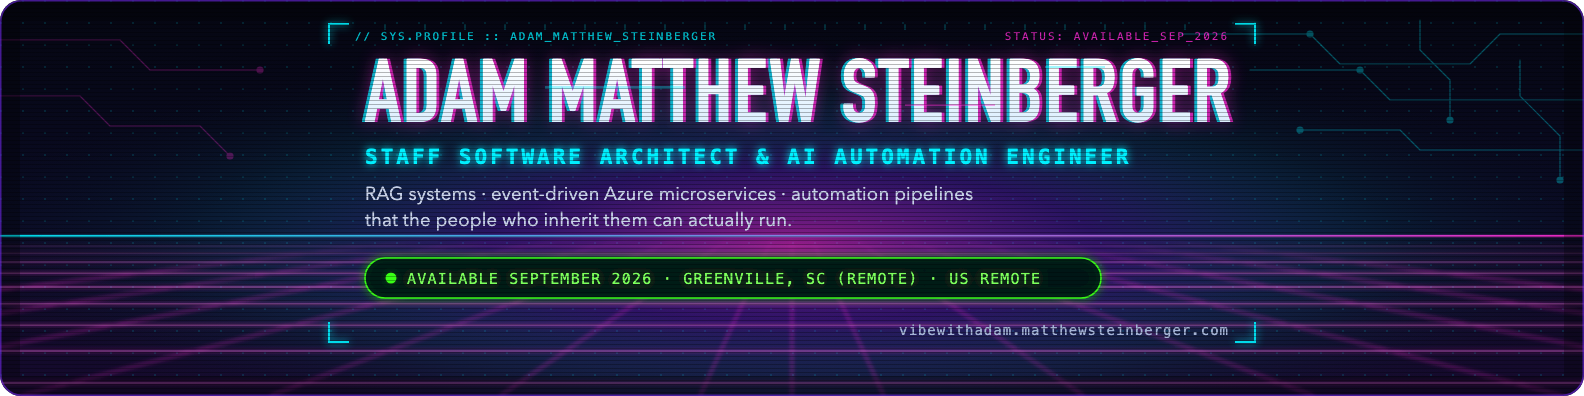
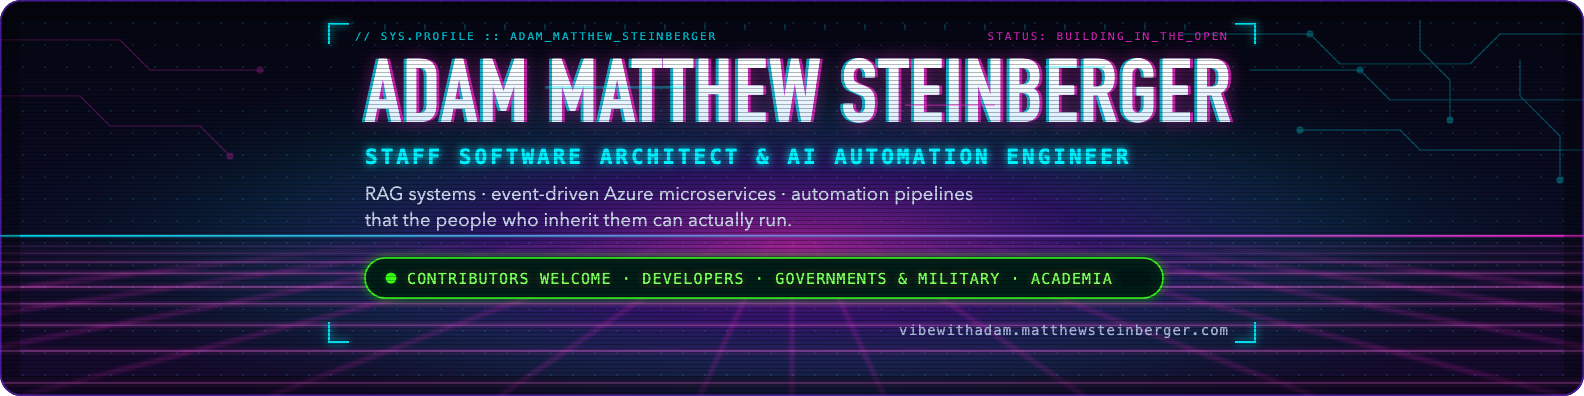
docs: point the profile at contributors, governments and academia
The operator decided that nothing on the profile may be looking-for-work or
consulting copy. The profile now speaks to three audiences, in this order,
with the positioning and wording of the website rework
(adammatthewsteinberger/portfolio#89, src/data/audiences.ts and /join-me):

1. Developers who can help build vibey, with a five-step "how to get
   started" taken from vibey's CONTRIBUTING.md (set up, run the gates,
   pick an issue, branch from develop, PR into develop through the merge
   train) and a link to /join-me#developers.
2. Governments and military: seven claims, each linked to its source in
   the vibey repository. The open gap for fully local operation (#115) is
   named, contact goes through official channels, and the section claims
   no customer, contract, clearance, accreditation or endorsement.
3. Universities and academia: the paper, the book, CITATION.cff (no DOI
   yet), reproducibility, the MIT license and research collaboration, with
   no claimed affiliation. Links to /join-me#academia.

Removed: the "Available from September 2026" badge, the résumé badge, the
target-roles and W2 line, "Everything a hiring manager needs" and "Ask my
résumé" (now "Ask about Adam"), the "hire me" link, the availability note
under Now, and the executive-edition link. The old Contribute section is
folded into "Help build vibey".

Package links pointed at adammatthewsteinberger/<package> repositories
that now 404. They point at the package's directory in
[…]

Changed region(s): [[0.2475, 0.6364, 0.7424, 0.7879], [0.6187, 0.0606, 0.7734, 0.1212]]

diff --git a/README.md b/README.md
@@ -1,17 +1,70 @@
 <picture>
   <source media="(prefers-color-scheme: dark)" srcset="assets/banner-dark.png">
-  <img src="assets/banner-light.png" width="100%" alt="Adam Matthew Steinberger — Staff Software Architect & AI Automation Engineer. Available from September 2026, Greenville, SC (remote) / US remote.">
+  <img src="assets/banner-light.png" width="100%" alt="Adam Matthew Steinberger — Staff Software Architect & AI Automation Engineer. Status: building in the open. Contributors welcome: developers, governments and military, universities and academia.">
 </picture>
 
 # Adam Matthew Steinberger
 
 **Staff Software Architect & AI Automation Engineer** — I build AI systems that actually work inside enterprise environments: production-grade platforms that handle real data, real security requirements, and real organizational complexity. Not just demos.
 
-[![Available from September 2026](https://img.shields.io/badge/Available-from%20September%202026-1a7f37?style=flat-square)](https://vibewithadam.matthewsteinberger.com/hire-me) [![Résumé (PDF)](https://img.shields.io/badge/R%C3%A9sum%C3%A9-PDF-0969da?style=flat-square)](https://github.com/adammatthewsteinberger/resume/raw/main/adam-steinberger-resume.pdf) [![LinkedIn](https://img.shields.io/badge/LinkedIn-adammatthewsteinberger-0a66c2?style=flat-square&logo=linkedin&logoColor=white)](https://www.linkedin.com/in/adammatthewsteinberger/) [![Join me](https://img.shields.io/badge/Join%20me-contribute-6f42c1?style=flat-square)](https://vibewithadam.matthewsteinberger.com/join-me)
+[![vibey on PyPI](https://img.shields.io/pypi/v/vibey?style=flat-square&label=vibey&color=6f42c1)](https://pypi.org/project/vibey/) [![vibey on GitHub](https://img.shields.io/badge/GitHub-the--vibey--project%2Fvibey-24292f?style=flat-square&logo=github&logoColor=white)](https://github.com/the-vibey-project/vibey) [![LinkedIn](https://img.shields.io/badge/LinkedIn-adammatthewsteinberger-0a66c2?style=flat-square&logo=linkedin&logoColor=white)](https://www.linkedin.com/in/adammatthewsteinberger/) [![Join me](https://img.shields.io/badge/Join%20me-contribute-6f42c1?style=flat-square)](https://vibewithadam.matthewsteinberger.com/join-me)
 
-Based in Greenville, SC. Looking for **Staff Software Architect · AI Automation Engineer · Staff/Principal AI Engineer · Solutions Architect · Platform/Automation Engineer** roles — Greenville-remote or US-remote, W2 preferred, contract-to-hire OK.
+Based in Greenville, SC. I primarily develop free and open-source software, and right now that means **[vibey](https://github.com/the-vibey-project/vibey)**, the open-source conductor that turns AI coding agents into autonomous software delivery. I'm looking for developers to help build it. Greenville-remote or US-remote volunteers are welcome and encouraged to get involved at any time.
 
-**→ [Everything a hiring manager needs](https://vibewithadam.matthewsteinberger.com/hire-me)** · [Email me](mailto:adam@matthewsteinberger.com) · [Ask my résumé](https://vibewithadam.matthewsteinberger.com/) (a Claude RAG widget I built)
+This profile speaks to three audiences, in this order: **[developers](#help-build-vibey)** · **[governments and military](#governments-and-military)** · **[universities and academia](#universities-and-academia)**.
+
+**→ [Everything a developer needs to get started](https://vibewithadam.matthewsteinberger.com/join-me#developers)** · [Email me](mailto:adam@matthewsteinberger.com) · [Ask about Adam](https://chatwithadam.matthewsteinberger.com/) (a Claude RAG chat I built)
+
+## Help build vibey
+
+AI coding agents can write code. Delivery still means babysitting them: re-prompting when one loses the thread, re-explaining everything after a crash, and watching a run die at 2am because one vendor's credits ran out. vibey takes that job over. It interviews you until the spec is sharp, builds unattended across a pool of engines, and brings you back only for the decisions that are genuinely yours.
+
+It's MIT licensed and one `uv tool install vibey` away ([PyPI](https://pypi.org/project/vibey/) · [docs](https://the-vibey-project.github.io/vibey/main/)). The whole family lives in [one repository](https://github.com/the-vibey-project/vibey): the five `*loop` engines, vibey-gh, vibey-skills, and vibey-bootstrap.
+
+**How to get started**
+
+1. **Set up the repository.** You need Python 3.12+, PostgreSQL, and macOS or Linux. The test suite needs no engine binaries and no paid accounts.
+   ```sh
+   git clone https://github.com/the-vibey-project/vibey.git && cd vibey
+   uv sync --extra dev
+   uv run pre-commit install --hook-type pre-commit --hook-type commit-msg --hook-type pre-push
+   uv run vibey-gh install
+   ```
+2. **Run the gates.** The same seven gates CI runs (ruff lint and format, `mypy --strict`, the tests with a 100% branch-coverage floor on each architectural layer, import-linter, bandit, pip-audit), in one command: `uv run pre-commit run --all-files --hook-stage pre-push`.
+3. **Pick an issue.** Start with a [good first issue](https://github.com/the-vibey-project/vibey/issues?q=is%3Aissue%20is%3Aopen%20label%3A%22good%20first%20issue%22), [help wanted](https://github.com/the-vibey-project/vibey/issues?q=is%3Aissue%20is%3Aopen%20label%3A%22help%20wanted%22), or an [open bug](https://github.com/the-vibey-project/vibey/issues?q=is%3Aissue%20is%3Aopen%20label%3A%22bug%22). Read [CONTRIBUTING.md](https://github.com/the-vibey-project/vibey/blob/develop/CONTRIBUTING.md) and the short list of [non-negotiables](https://github.com/the-vibey-project/vibey/blob/develop/CLAUDE.md) first, because the gates enforce both.
+4. **Branch from `develop` and commit conventionally.** `git checkout -b feature/short-description develop`. The commit-msg hook appends the `Made-With:` provenance trailer.
+5. **Open a pull request into `develop`, never `main`.** You never press Merge: once it has one approval, a green `gates` check, and a passing PR-automation gate, the merge train squash-merges it.
+
+Where help matters most: finishing the sovereign path ([#115](https://github.com/the-vibey-project/vibey/issues/115), turning a local design into build work without a paid engine), fixing a reported bug, adding an engine, adding a skill, and improving the docs. The full walk-through, with the ten-minute user quickstart, is at **[/join-me#developers](https://vibewithadam.matthewsteinberger.com/join-me#developers)**.
+
+## Governments and military
+
+Governments, and armed forces most of all, adopt software under the hardest obligations. Every artifact has to be attributable, and every automated decision has to be reconstructible after the fact. Work has to continue when a vendor or a network is denied, and no capability can depend on a supplier's continued goodwill. Here is what vibey offers against those obligations. Each claim links to its source, so you can check it instead of trusting it.
+
+- **Local models by preference, not as a fallback.** The project's governing rules make the fully local path the preferred way to run ([sub-doctrine 8.a](https://github.com/the-vibey-project/vibey/blob/develop/src/vibey_tools/gh/docs/doctrines.md)). The design interview can run entirely on a local model served by Ollama, and build work can be pinned to qwenloop, a local Qwen 2.5 Coder engine. One gap is still open: turning a local design into build work without a paid engine ([#115](https://github.com/the-vibey-project/vibey/issues/115)). → [decision record](https://github.com/the-vibey-project/vibey/blob/develop/docs/architecture/decisions/0027-sovereign-design-provider.md)
+- **Built to run on your own hardware.** Your macOS or Linux hosts, your own PostgreSQL, no cloud control plane. The local engine never downloads model weights on its own. → [decision record](https://github.com/the-vibey-project/vibey/blob/develop/docs/architecture/decisions/0015-qwenloop-standby.md)
+- **An append-only ledger you can audit.** Every decision, finding, and handoff is written to an append-only PostgreSQL ledger before it takes effect. A correction is a new event that supersedes the old one, so any run can be reconstructed after the fact. → [the paper](https://the-vibey-project.github.io/vibey/main/paper/)
+- **Human authority is part of the structure.** Four of the six phases need an explicit, recorded human verdict before they close, and a worker never blocks while it waits. → [the paper](https://the-vibey-project.github.io/vibey/main/paper/)
+- **Provenance and exact-head review.** Every source file carries a provenance header and every commit a provenance trailer, enforced by a pre-push hook and a required CI check. Every check, review, and merge is tied to the exact commit it examined, so an old approval can never pass newer code. → [vibey-gh for governments](https://github.com/the-vibey-project/vibey/blob/develop/src/vibey_tools/gh/docs/government.md)
+- **Everything as code, behind the same gates.** Branch protection, pipelines, policy, and infrastructure are declared in the repository and reconciled from it. Changes pass bandit, pip-audit, strict typing, enforced layering, and a 100% branch-coverage floor on each layer. → [decision record](https://github.com/the-vibey-project/vibey/blob/develop/docs/architecture/decisions/0018-everything-as-code.md)
+- **Written rules for machine agents.** vibey's agent instructions carry standing subdoctrine [SD-01](https://github.com/the-vibey-project/vibey/blob/develop/src/vibey_tools/gh/docs/sd-01-counterparties-trust-verification.md) word for word: every counterparty, whether a person, a company, or a state, starts unverified until a tangible check establishes its identity, authority, and intent.
+
+Use official channels, and expect the same verification in return. Write from an official address to [adam@matthewsteinberger.com](mailto:adam@matthewsteinberger.com), report a security vulnerability privately as [vibey's security policy](https://github.com/the-vibey-project/vibey/blob/develop/SECURITY.md) describes (never in a public issue), and ask public questions in [GitHub Discussions](https://github.com/the-vibey-project/vibey/discussions). The full section is at **[/join-me#governments](https://vibewithadam.matthewsteinberger.com/join-me#governments)**.
+
+*This profile claims no government or military customer, contract, clearance, accreditation, or endorsement. vibey is MIT-licensed open source: evaluate it on your own hardware, against its own gates.*
+
+## Universities and academia
+
+Claims about AI agents are easy to make and hard to reproduce. vibey's design is written as a research paper, its whole documentation is a book, and the code that backs both is open. Read it, cite it, teach with it, and test it.
+
+- **The research paper.** *Ledger-Mediated Orchestration: Vendor-Independent Autonomous Software Delivery over a Pool of Coding Agents* states the ledger invariant, the queue semantics, the no-loss handoff gate, and the gate-soundness argument formally. [HTML](https://the-vibey-project.github.io/vibey/main/paper/) · [PDF](https://the-vibey-project.github.io/vibey/main/paper.pdf) · [companion paper on the exact-head release calculus](https://github.com/the-vibey-project/vibey/blob/develop/src/vibey_tools/gh/docs/paper.md)
+- **The book.** Every page of the documentation, in reading order, rebuilt on every release. [PDF](https://the-vibey-project.github.io/vibey/main/book.pdf) · [EPUB](https://the-vibey-project.github.io/vibey/main/book.epub) · [print-ready HTML](https://the-vibey-project.github.io/vibey/main/book-print.html)
+- **Reproducible from the repository.** The paper is typeset from Markdown in the repository. The properties it relies on are pure, deterministic code under a 100% branch-coverage floor, backed by property tests and a chaos test against a real PostgreSQL. The paper also says what it does not yet report: live runs beyond two paid engines. Independent replication is welcome.
+- **Cite it.** The repository has a [CITATION.cff](https://github.com/the-vibey-project/vibey/blob/develop/CITATION.cff), so GitHub's "Cite this repository" button and citation managers can read it directly. No DOI or preprint identifier has been assigned yet.
+- **Open licenses for teaching and research.** vibey is [MIT licensed](https://github.com/the-vibey-project/vibey/blob/develop/LICENSE). Use it in a course, fork it for an experiment, and publish what you find.
+- **Research collaboration.** Some open questions worth a study: how the local path compares with paid engines on the same specifications, how the no-loss handoff gate behaves at scale, and live evaluation across all five engines. Propose a study, a course project, or a research partnership in [Discussions](https://github.com/the-vibey-project/vibey/discussions) or by [email](mailto:adam@matthewsteinberger.com).
+
+The full section is at **[/join-me#academia](https://vibewithadam.matthewsteinberger.com/join-me#academia)**. *This profile claims no institutional affiliation or endorsement.*
 
 ## What I ship
 
@@ -31,22 +84,20 @@ All 17 case studies → **[/work](https://vibewithadam.matthewsteinberger.com/wo
 
 ## Open source — MIT, on PyPI
 
+Everything here except clippy-pet lives in one repository, **[the-vibey-project/vibey](https://github.com/the-vibey-project/vibey)**, and ships as one PyPI distribution: `uv tool install vibey` installs the conductor, all five `*loop` engines, and the tools ([PyPI](https://pypi.org/project/vibey/) · [docs](https://the-vibey-project.github.io/vibey/main/)).
+
 | Package | What it is | Links |
 |---|---|---|
-| **claudeloop** | Onion-architected autonomous Claude Code session runner. Never blocks on a human; tells an exhausted rate-limit window apart from exhausted credits and resumes across usage windows. | [PyPI](https://pypi.org/project/claudeloop/) · [repo](https://github.com/adammatthewsteinberger/claudeloop) |
-| **codexloop · cursorloop · agyloop** | The same runner, three more engines — OpenAI Codex, Cursor Agent, Google Antigravity/Gemini. Same contract, different vendor. | [codexloop](https://github.com/adammatthewsteinberger/codexloop) · [cursorloop](https://github.com/adammatthewsteinberger/cursorloop) · [agyloop](https://github.com/adammatthewsteinberger/agyloop) |
-| **qwenloop** | The same runner, fully local: Qwen 2.5 Coder 14B through llama.cpp by default or vLLM on NVIDIA. Never downloads weights on its own. | [PyPI](https://pypi.org/project/qwenloop/) · [repo](https://github.com/adammatthewsteinberger/qwenloop) |
-| **vibey** | Queue-based, six-phase conductor for autonomous software delivery on top of the `*loop` runners: spec interview → design pass → build → review → deploy. PostgreSQL-backed. | [PyPI](https://pypi.org/project/vibey/) · [repo](https://github.com/adammatthewsteinberger/vibey) |
-| **vibey-gh** | Release automation for a GitHub repository, stdlib only: provenance fingerprints, derived version bumps, exact-head AI review and repair, a merge train, dual-channel releases, docs maintenance. | [PyPI](https://pypi.org/project/vibey-gh/) · [repo](https://github.com/adammatthewsteinberger/vibey-gh) |
-| **vibey-bootstrap** | Formerly azure-bootstrap. The Azure Functions cross-cutting layer, solved once — config ↔ App Insights bootstrap cycle, structured logging, Service Bus plumbing, scaffold CLI. Used across 17+ Azure Functions repos. | [PyPI](https://pypi.org/project/vibey-bootstrap/) · [repo](https://github.com/adammatthewsteinberger/vibey-bootstrap) |
-| **vibey-skills** | Formerly vibe-engineering-skills. Claude Code plugin marketplace: 18 plugins, 71 Agent Skills across security, cloud, DevSecOps, AI/ML, architecture, QA. Every claim cites its source. | [PyPI](https://pypi.org/project/vibey-skills/) · [repo](https://github.com/adammatthewsteinberger/vibey-skills) |
+| **claudeloop** | Onion-architected autonomous Claude Code session runner. Never blocks on a human; tells an exhausted rate-limit window apart from exhausted credits and resumes across usage windows. | [source](https://github.com/the-vibey-project/vibey/tree/develop/src/vibey_runners/claude) |
+| **codexloop · cursorloop · agyloop** | The same runner, three more engines — OpenAI Codex, Cursor Agent, Google Antigravity/Gemini. Same contract, different vendor. | [codexloop](https://github.com/the-vibey-project/vibey/tree/develop/src/vibey_runners/codex) · [cursorloop](https://github.com/the-vibey-project/vibey/tree/develop/src/vibey_runners/cursor) · [agyloop](https://github.com/the-vibey-project/vibey/tree/develop/src/vibey_runners/agy) |
+| **qwenloop** | The same runner, fully local: Qwen 2.5 Coder 14B through llama.cpp by default or vLLM on NVIDIA. Never downloads weights on its own. | [source](https://github.com/the-vibey-project/vibey/tree/develop/src/vibey_runners/qwen) |
+| **vibey** | Queue-based, six-phase conductor for autonomous software delivery on top of the `*loop` runners: spec interview → design pass → build → review → deploy. PostgreSQL-backed. | [PyPI](https://pypi.org/project/vibey/) · [repo](https://github.com/the-vibey-project/vibey) · [docs](https://the-vibey-project.github.io/vibey/main/) |
+| **vibey-gh** | Release automation for a GitHub repository, stdlib only: provenance fingerprints, derived version bumps, exact-head AI review and repair, a merge train, dual-channel releases, docs maintenance. | [source](https://github.com/the-vibey-project/vibey/tree/develop/src/vibey_tools/gh) |
+| **vibey-bootstrap** | Formerly azure-bootstrap. The Azure Functions cross-cutting layer, solved once — config ↔ App Insights bootstrap cycle, structured logging, Service Bus plumbing, scaffold CLI. Used across 17+ Azure Functions repos. | [source](https://github.com/the-vibey-project/vibey/tree/develop/src/vibey_tools/bootstrap) |
+| **vibey-skills** | Formerly vibe-engineering-skills. Claude Code plugin marketplace of Agent Skills across security, cloud, DevSecOps, AI/ML, architecture, QA and more. Every claim cites its source. | [source](https://github.com/the-vibey-project/vibey/tree/develop/src/vibey_tools/skills) |
 | **clippy-pet** | An animated paperclip pet for ChatGPT desktop and Codex CLI. Because not everything has to be serious. | [repo](https://github.com/adammatthewsteinberger/clippy-pet) |
 
 More → **[/open-source](https://vibewithadam.matthewsteinberger.com/open-source)**
-
-## Contribute
-
-I primarily develop free and open-source software, and I'm always open for a connection or a coffee — Greenville-remote or US-remote volunteers are welcome and encouraged to get involved at any time. Everything a developer needs to get started (a free quickstart for the whole stack, how my own site is built with it, and where to begin) is at **[/join-me](https://vibewithadam.matthewsteinberger.com/join-me)** · [adam@matthewsteinberger.com](mailto:adam@matthewsteinberger.com)
 
 ## Writing
 
@@ -77,13 +128,13 @@ Also in development: *Engineering Influence* — see **[/books](https://vibewith
 - **Cross-cutting concerns solved once** — `vibey-bootstrap` is the config/logging/Service Bus layer factored out of 17+ Azure Functions repos
 - **Process engineering alongside the code** — Epics → Features → Stories decomposition, so the work stays legible to the people funding it
 
-More → [my story](https://vibewithadam.matthewsteinberger.com/story) · [hire me](https://vibewithadam.matthewsteinberger.com/hire-me)
+More → [my story](https://vibewithadam.matthewsteinberger.com/story) · [join me](https://vibewithadam.matthewsteinberger.com/join-me)
 
 ## Now
 
-- Senior Azure & AI Development Engineer, **The Vizius Group**, Sep 2025 – Aug 2026. **Available from September 2026.**
+- Building **[vibey](https://github.com/the-vibey-project/vibey)** in the open: 1.0.0 shipped to [PyPI](https://pypi.org/project/vibey/) in September 2026, the conductor and the whole `*loop` family in one MIT-licensed distribution. I'm looking for developers to build it with me → [/join-me](https://vibewithadam.matthewsteinberger.com/join-me)
+- Senior Azure & AI Development Engineer, **The Vizius Group**, Sep 2025 – Aug 2026.
 - Volunteer software architect for a nonprofit AI apologetics chat platform since Apr 2026 — the AI→human live-chat relay is written up at [/work/project-excite-relay](https://vibewithadam.matthewsteinberger.com/work/project-excite-relay).
-- Hiring for a business rather than an engineering team? The executive edition of my site states the problem first → [/for-executives](https://vibewithadam.matthewsteinberger.com/for-executives)
 - B.A. Computer Science, Skidmore College (2012) · Certified ScrumMaster (2021)
 
 <details>
